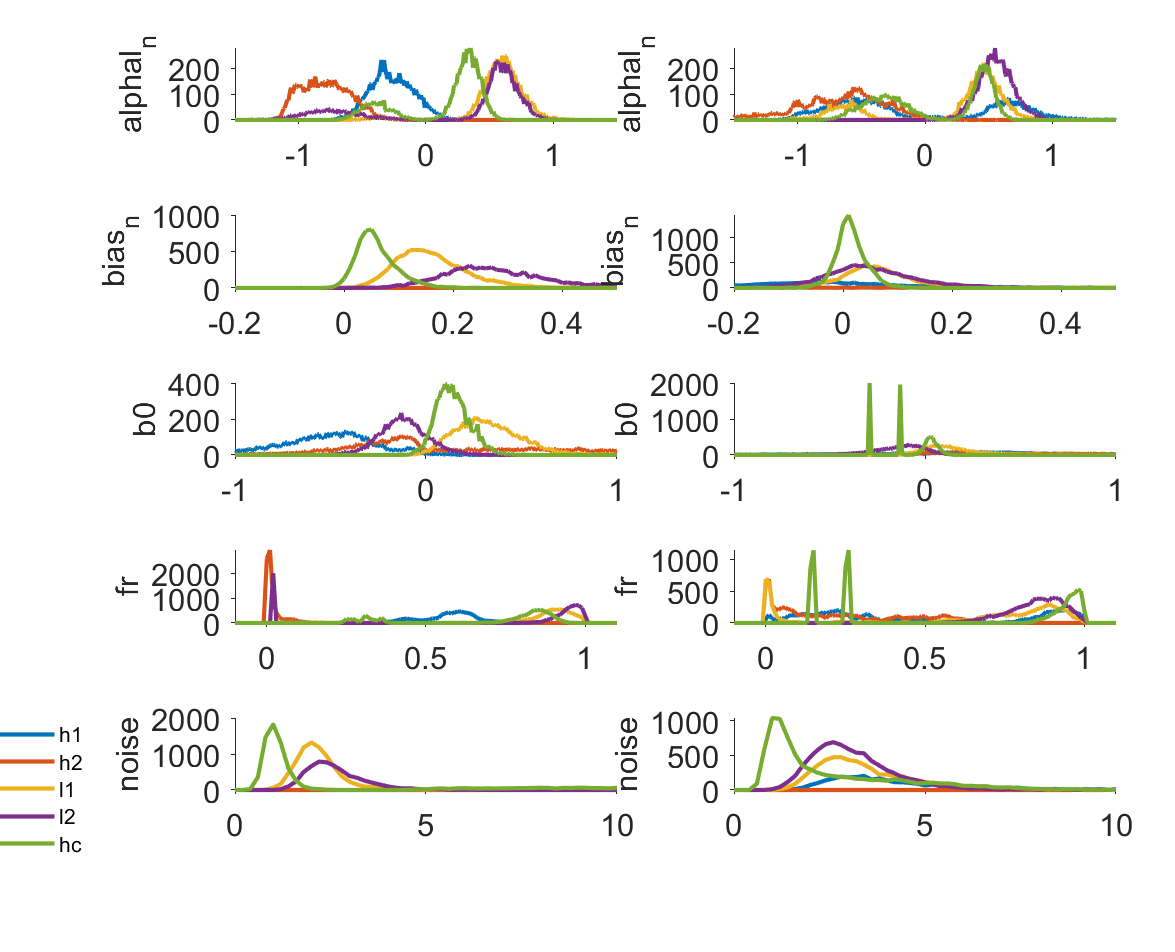
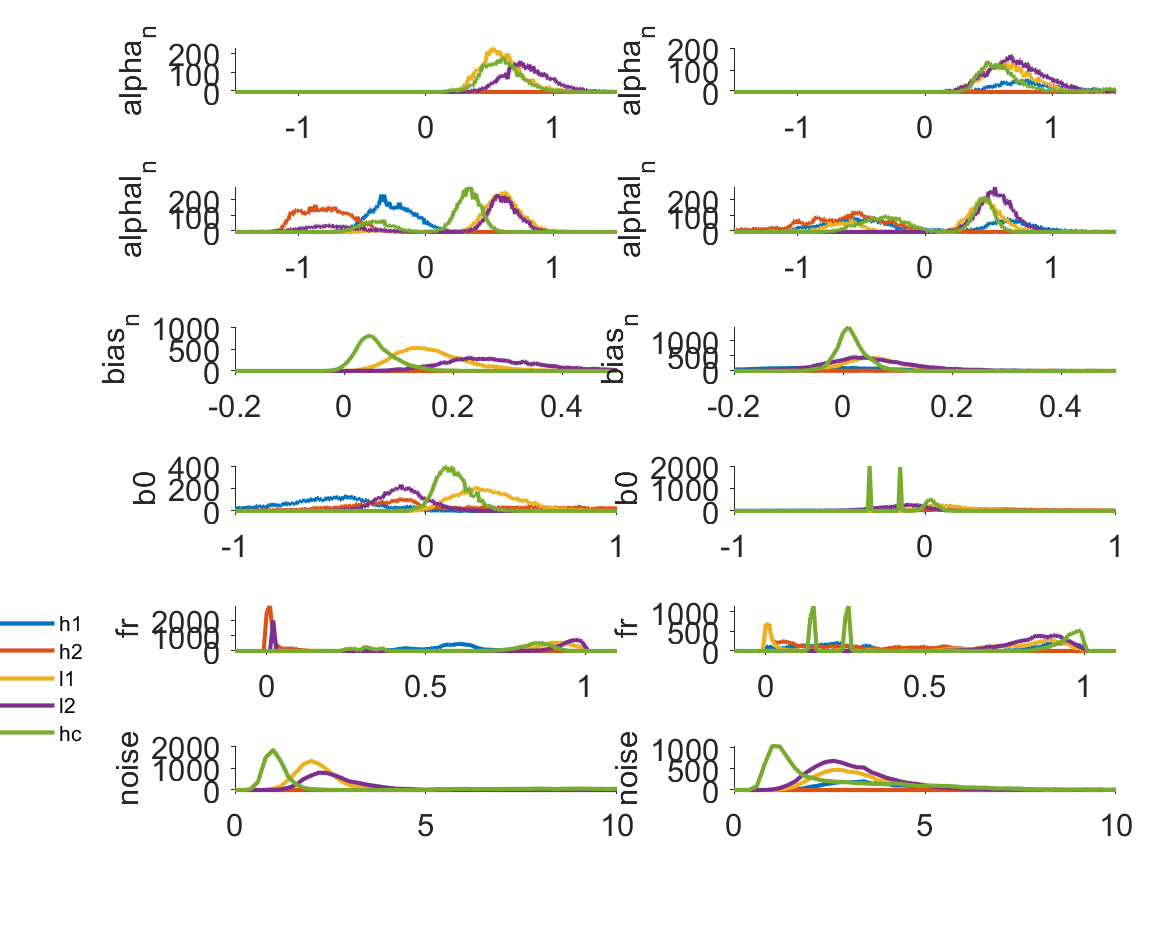
update

diff --git a/codes/figure_bayesian.m b/codes/figure_bayesian.m
@@ -63,13 +63,13 @@ for di = 1:nd
     sp{di} = importdata(fullfile(files{di}(id).folder, files{di}(id).name));
 end
 %%
-plt.figure(5, 2);
+plt.figure(6, 2);
 plt.param_figsetting.linewidth = 2;
-name = {'alphal_n', 'bias_n', 'b0', 'fr', 'noise'};
-xb = {[-10:0.01:10], [-10:0.01:10], [-10:0.01:10], [-10:0.01:10], [0:.2:100]};
-xlm = {[-1.5,1.5], [-0.2,0.5], [-1,1], [-0.1,1.1], [0,10]};
+name = {'alpha_n','alphal_n', 'bias_n', 'b0', 'fr', 'noise'};
+xb = {[-10:0.01:10],[-10:0.01:10],[-10:0.01:10], [-10:0.01:10], [-10:0.01:10], [0:.2:100]};
+xlm = {[-1.5,1.5],[-1.5,1.5], [-0.2,0.5], [-1,1], [-0.1,1.1], [0,10]};
 legs = {'h1','h2','l1','l2','hc'};
-for fi = 1:5
+for fi = 1:6
     for i = 1:2
         plt.ax(fi,i);
         plt.setfig_ax('xlim', xlm{fi}, 'ylabel', name{fi});
